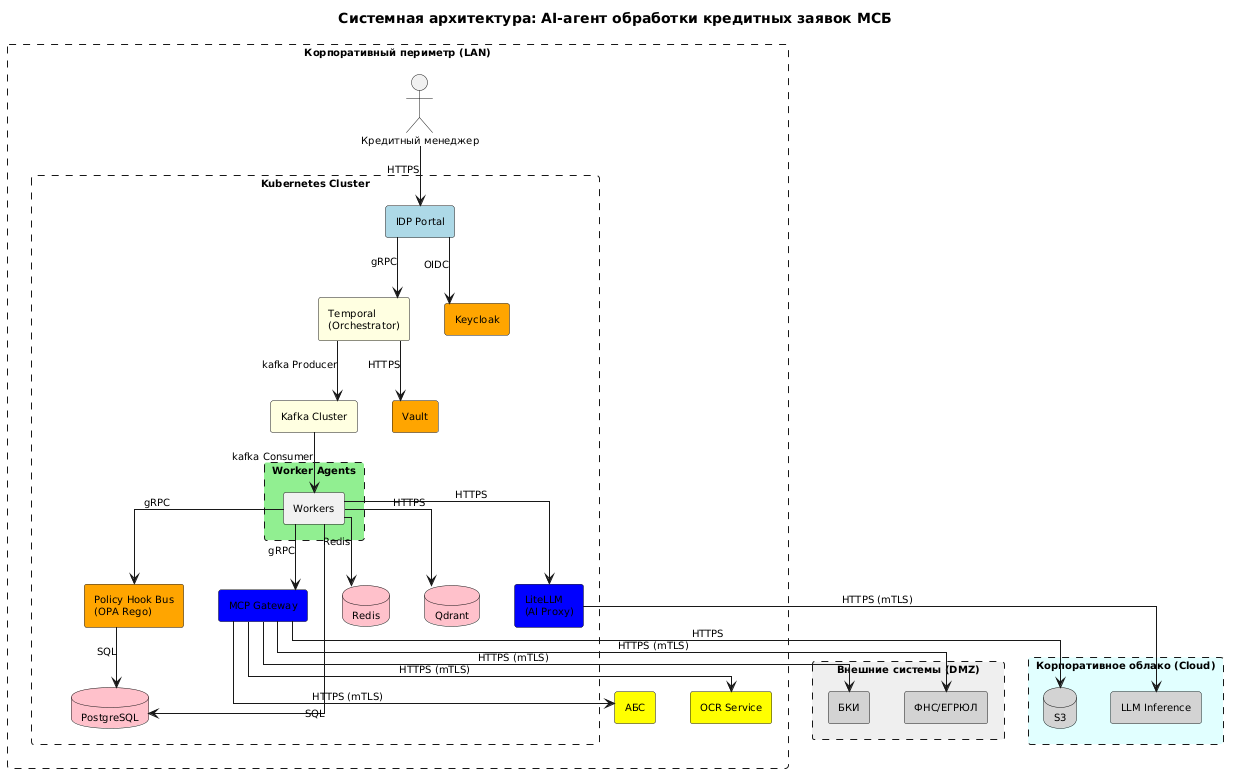
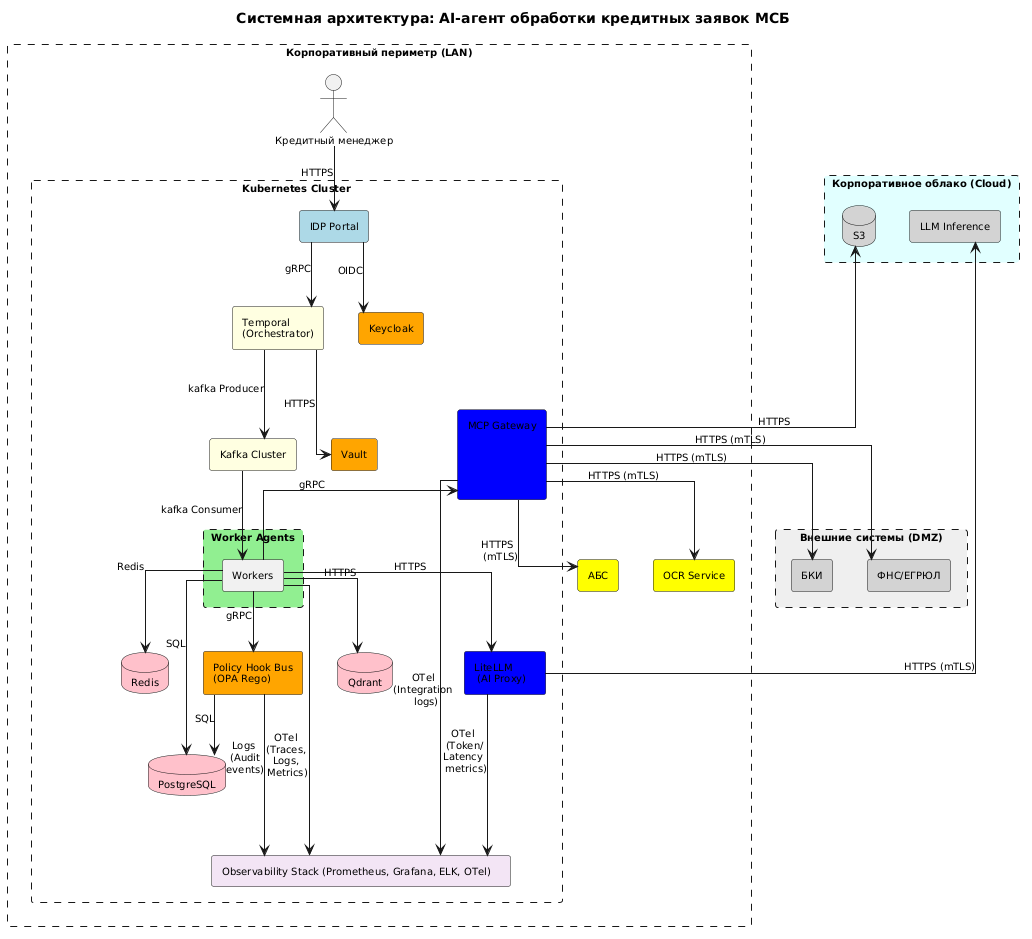
информационная и системная диаграмма + md и docx

diff --git a/docs/Architecture_Document.md b/docs/Architecture_Document.md
@@ -116,28 +116,33 @@
 
 ![Информационная архитектура](./diagrams/info_architecture.png)
 
-| Код | Объект данных                  | Источник                                                       | Получатель                                                     | Сущности в потоке                                                                                                 | Описание                                                                                                           | Тип      | Протокол           | Нагрузка                      |
-| --- | ------------------------------ | -------------------------------------------------------------- | -------------------------------------------------------------- | ----------------------------------------------------------------------------------------------------------------- | ------------------------------------------------------------------------------------------------------------------ | -------- | ------------------ | ----------------------------- |
-| П01 | Заявка на кредит               | Кредитный менеджер                                             | Слой: Интерфейс (IDP UI)                                       | JSON: анкета клиента + пакет документов (PDF/DOCX, до 200 МБ)                                                     | Новый поток. Менеджер загружает анкету и пакет документов через IDP UI и нажимает «Запустить обработку».           | Request  | HTTPS              | ~5 МБ на заявку               |
-| П02 | Запрос аутентификации          | Слой: Интерфейс (IDP UI)                                       | Слой: Безопасность (Keycloak, Vault, Policy Hook Bus)          | {user_id, mfa_challenge, session_id}                                                                              | Новый поток. IDP Portal инициирует аутентификацию в корпоративном IdP (Keycloak).                                  | Request  | OIDC/OAuth2        | ~1 КБ                         |
-| П03 | JWT-токен с правами            | Слой: Безопасность (Keycloak, Vault, Policy Hook Bus)          | Слой: Интерфейс (IDP UI)                                       | {access_token, roles, r_level, permissions}                                                                       | Новый поток. Keycloak возвращает JWT с ролями и вычисленным R-level для доступа к flows.                           | Response | OIDC               | ~2 КБ                         |
-| П04 | Заявка на обработку            | Слой: Интерфейс (IDP UI)                                       | Слой: Оркестратор (Temporal, A2A/Kafka)                        | A2A message: {task_id, spec_pointer: "SDD-10293", context_bundle, user_jwt, constraints}                          | Новый поток. IDP Portal валидирует заявку, формирует A2A-сообщение и передаёт в Orchestrator через Temporal/Kafka. | Request  | A2A (JSON-RPC)     | ~20 КБ                        |
-| П05 | Декомпозиция задач             | Слой: Оркестратор (Temporal, A2A/Kafka)                        | Слой: Агенты (Review, Scoring, Document, Guardian, Compliance) | A2A: {task_id, subtasks: \[...\], spec_pointer, sandbox_profile}                                                  | Новый поток. Orchestrator декомпозирует заявку на подзадачи и маршрутизирует специализированным агентам.           | Request  | A2A (JSON-RPC)     | ~10 КБ                        |
-| П06 | Запрос политик                 | Слой: Агенты (Review, Scoring, Document, Guardian, Compliance) | Слой: Безопасность (Keycloak, Vault, Policy Hook Bus)          | {action: "pdn_process", context: {...}, policy_ids: \["152-FZ-v2.1", "CBR-AML-v1.0"\]}                            | Новый поток. Агенты запрашивают политики безопасности и compliance-правила перед выполнением действий.             | Request  | gRPC + mTLS        | ~5 КБ                         |
-| П07 | Политики и разрешения          | Слой: Безопасность (Keycloak, Vault, Policy Hook Bus)          | Слой: Агенты (Review, Scoring, Document, Guardian, Compliance) | {decision: ALLOW/DENY/MODIFY/ESCALATE, policies: \[...\], r_level: 2}                                             | Новый поток. Policy Hook Bus возвращает решение по политикам (OPA Rego) и активные ограничения.                    | Response | gRPC + mTLS        | ~5 КБ                         |
-| П08 | Запрос контекста               | Слой: Агенты (Review, Scoring, Document, Guardian, Compliance) | Слой: Данные (RAG/Cache/Evidence/Audit)                        | {query_vector, collection: "credit_policies", top_k: 5}                                                           | Новый поток. Агенты запрашивают корпоративные знания и контекст из RAG/Cache для принятия решений.                 | Request  | HTTPS              | ~5 КБ                         |
-| П09 | Корпоративные знания           | Слой: Данные (RAG/Cache/Evidence/Audit)                        | Слой: Агенты (Review, Scoring, Document, Guardian, Compliance) | {context_documents: \[...\], policies: \[...\], patterns: \[...\]}                                                | Новый поток. RAG возвращает релевантные документы, политики кредитования и паттерны обработки.                     | Response | HTTPS              | ~50 КБ                        |
-| П10 | Запрос к системам              | Слой: Агенты (Review, Scoring, Document, Guardian, Compliance) | Слой: Интеграция (AI Gateway / MCP)                            | MCP request: {tool_id: "ocr_service.extract", params: {file_uri}}                                                 | Новый поток. Агенты запрашивают доступ к корпоративным системам через MCP Proxy.                                   | Request  | MCP (HTTPS)        | ~10 КБ                        |
-| П11 | Запрос к АБС/распознаванию     | Слой: Интеграция (AI Gateway / MCP)                            | Слой: Корпоративные системы (Распознавание, АБС)               | HTTPS POST: {subject_id, consent_token, query_type: "credit_history"}                                             | Новый поток. MCP Proxy проксирует запросы к АБС (банковское ядро) и сервису распознавания документов.              | Request  | HTTPS + mTLS + JWT | ~50 КБ                        |
-| П12 | Данные от корпоративных систем | Слой: Корпоративные системы (Распознавание, АБС)               | Слой: Интеграция (AI Gateway / MCP)                            | {credit_history: {...}, account_data: {...}, recognized_text: "..."}                                              | Новый поток. АБС возвращает данные о счетах клиента, сервис распознавания - извлечённый текст из документов.       | Response | HTTPS + mTLS       | ~100 КБ                       |
-| П13 | Запрос внешних данных          | Слой: Интеграция (AI Gateway / MCP)                            | Слой: Внешние API (ФНС/ЕГРЮЛ/БКИ)                              | HTTPS POST: {inn, ogrn, query_type: "entity_verification"}                                                        | Новый поток. MCP Proxy запрашивает данные из внешних реестров (ФНС, ЕГРЮЛ, БКИ) для верификации клиента.           | Request  | HTTPS + mTLS       | ~30 КБ                        |
-| П14 | Данные от внешних API          | Слой: Внешние API (ФНС/ЕГРЮЛ/БКИ)                              | Слой: Интеграция (AI Gateway / MCP)                            | {entity_data: {...}, credit_score: 750, registration_status: "active"}                                            | Новый поток. Внешние API возвращают данные о контрагенте, кредитную историю и статус регистрации.                  | Response | HTTPS + mTLS       | ~50 КБ                        |
-| П15 | Запрос LLM/документов          | Слой: Интеграция (AI Gateway / MCP)                            | Слой: Облако (LLM, S3)                                         | OpenAI-compatible: {model: "gigachat-max-2", messages: \[...\]} + S3 GET: {bucket: "credit-apps", key: "doc.pdf"} | Новый поток. LiteLLM проксирует запрос к LLM для инференса, S3 - загрузка/выгрузка документов.                     | Request  | HTTPS + mTLS       | ~50 КБ (LLM) + до 200 МБ (S3) |
-| П16 | Ответ LLM/файлы                | Слой: Облако (LLM, S3)                                         | Слой: Интеграция (AI Gateway / MCP)                            | {response: "Одобрить кредит", confidence: 0.95} + S3 file: {file_uri: "s3://..."}                                 | Новый поток. LLM возвращает решение по скорингу, S3 - обработанные файлы.                                          | Response | HTTPS + mTLS       | ~50 КБ (LLM) + до 200 МБ (S3) |
-| П17 | Ответ от систем                | Слой: Интеграция (AI Gateway / MCP)                            | Слой: Агенты (Review, Scoring, Document, Guardian, Compliance) | {tool_result: {...}, status: "success", data: {...}}                                                              | Новый поток. MCP Proxy возвращает агентам агрегированные результаты от корпоративных и внешних систем.             | Response | MCP (HTTPS)        | ~100 КБ                       |
-| П18 | Результат обработки            | Слой: Агенты (Review, Scoring, Document, Guardian, Compliance) | Слой: Оркестратор (Temporal, A2A/Kafka)                        | A2A: {task_id, result: {...}, evidence_bundle: {...}, eval_results: {...}}                                        | Новый поток. Агенты возвращают Orchestrator результаты обработки с Evidence Bundle.                                | Response | A2A (JSON-RPC)     | ~100 КБ                       |
-| П19 | Результат заявки               | Слой: Оркестратор (Temporal, A2A/Kafka)                        | Слой: Интерфейс (IDP UI)                                       | JSON: {application_id, decision: "approve/reject", risk_score, explanation}                                       | Новый поток. Orchestrator возвращает финальное решение по заявке в IDP UI.                                         | Response | HTTPS              | ~10 КБ                        |
-| П20 | Решение по заявке              | Слой: Интерфейс (IDP UI)                                       | Кредитный менеджер                                             | JSON: {application_id, decision, risk_score, explanation, next_steps} + файлы                                     | Новый поток. IDP Portal визуализирует решение с объяснением для менеджера.                                         | Response | HTTPS              | ~10 КБ                        |
+| Код | Объект данных | Источник | Получатель | Сущности в потоке | Описание (когда и зачем происходит) | Тип | Протокол | Нагрузка |
+|---|---|---|---|---|---|---|---|---|
+| П01 | Заявка на кредит | Кредитный менеджер | Слой: Интерфейс (IDP UI) | JSON: анкета + пакет документов | Шаг 1. Менеджер загружает анкету и документы через IDP UI и инициирует процесс. | Request | HTTPS | ~5 МБ |
+| П02 | Запрос аутентификации | Слой: Интерфейс (IDP UI) | Слой: Безопасность | {user_id, mfa_challenge, session_id} | Шаг 2. IDP инициирует аутентификацию пользователя в корпоративном IdP (Keycloak). | Request | OIDC/OAuth2 | ~1 КБ |
+| П03 | JWT-токен с правами | Слой: Безопасность | Слой: Интерфейс (IDP UI) | {access_token, roles, r_level, permissions} | Шаг 3. Keycloak возвращает JWT с ролями и вычисленным R-level для доступа к flows. | Response | OIDC | ~2 КБ |
+| П04 | Заявка на обработку | Слой: Интерфейс (IDP UI) | Слой: Оркестратор | A2A: {task_id, spec_pointer, context_bundle, user_jwt} | Шаг 4. IDP валидирует заявку и передает намерение Оркестратору через A2A/Kafka. | Request | A2A (JSON-RPC) | ~20 КБ |
+| П05 | Метрики сессии (старт) | Слой: Оркестратор | Слой: Наблюдаемость | {session_id, token_budget, r_level, start_time} | Шаг 5. Оркестратор инициализирует сессию, фиксируя бюджет токенов и R-level для последующего Circuit Breaker. | Event | HTTPS / OTel | ~2 КБ |
+| П06 | Декомпозиция задач | Слой: Оркестратор | Слой: Агенты | A2A: {task_id, subtasks: [...], spec_pointer, sandbox_profile} | Шаг 6. Оркестратор декомпозирует заявку на подзадачи и маршрутизирует их специализированным агентам. | Request | A2A (JSON-RPC) | ~10 КБ |
+| П07 | Запрос политик | Слой: Агенты | Слой: Безопасность | {action: "pdn_process", context, policy_ids: ["152-FZ", "CBR-AML"]} | Шаг 7. Агент запрашивает проверку политик безопасности и compliance-правил перед выполнением действия. | Request | gRPC + mTLS | ~5 КБ |
+| П08 | Политики и разрешения | Слой: Безопасность | Слой: Агенты | {decision: ALLOW/DENY/MODIFY/ESCALATE, policies, r_level} | Шаг 8. Policy Hook Bus возвращает мандатное решение (OPA Rego) и активные ограничения. | Response | gRPC + mTLS | ~5 КБ |
+| П09 | Аудит политик | Слой: Безопасность | Слой: Наблюдаемость | {event_id, policy_id, decision, r_level, timestamp} | Шаг 9. Фиксация факта срабатывания guardrails (152-ФЗ, ЦБ) в реальном времени для compliance-отчетности. | Event | HTTPS / Kafka | ~2 КБ |
+| П10 | Запрос контекста | Слой: Агенты | Слой: Данные | {query_vector, collection: "credit_policies", top_k: 5} | Шаг 10. Агент запрашивает корпоративные знания и контекст из RAG/Cache для принятия решения. | Request | HTTPS | ~5 КБ |
+| П11 | Корпоративные знания | Слой: Данные | Слой: Агенты | {context_documents, policies, patterns} | Шаг 11. RAG возвращает релевантные документы, политики кредитования и паттерны обработки. | Response | HTTPS | ~50 КБ |
+| П12 | Запрос к системам | Слой: Агенты | Слой: Интеграция | MCP request: {tool_id: "ocr_service.extract", params: {file_uri}} | Шаг 12. Агент запрашивает доступ к корпоративным или внешним системам через MCP Proxy. | Request | MCP (HTTPS) | ~10 КБ |
+| П13 | Трассировка вызова (старт) | Слой: Интеграция | Слой: Наблюдаемость | {trace_id, tool_id, masked_params, agent_id} | Шаг 13. Фиксация начала выполнения инструмента с маскированием чувствительных параметров (ПДН). | Event | HTTPS / OTel | ~5 КБ |
+| П14 | Запрос к АБС/распознаванию | Слой: Интеграция | Слой: Корп. системы | HTTPS POST: {subject_id, consent_token, query_type} | Шаг 14. MCP Proxy проксирует запросы к АБС (банковское ядро) и сервису распознавания документов. | Request | HTTPS + mTLS + JWT | ~50 КБ |
+| П15 | Данные от корп. систем | Слой: Корп. системы | Слой: Интеграция | {credit_history, account_data, recognized_text} | Шаг 15. АБС возвращает данные о счетах, сервис распознавания — извлечённый текст из документов. | Response | HTTPS + mTLS | ~100 КБ |
+| П16 | Запрос внешних данных | Слой: Интеграция | Слой: Внешние API | HTTPS POST: {inn, ogrn, query_type: "entity_verification"} | Шаг 16. MCP Proxy запрашивает данные из внешних реестров (ФНС, ЕГРЮЛ, БКИ) для верификации. | Request | HTTPS + mTLS | ~30 КБ |
+| П17 | Данные от внешних API | Слой: Внешние API | Слой: Интеграция | {entity_data, credit_score, registration_status} | Шаг 17. Внешние API возвращают данные о контрагенте, кредитную историю и статус регистрации. | Response | HTTPS + mTLS | ~50 КБ |
+| П18 | Запрос LLM/документов | Слой: Интеграция | Слой: Облако | OpenAI-compatible: {model, messages} + S3 GET: {bucket, key} | Шаг 18. LiteLLM проксирует запрос к LLM для инференса, S3 — загрузка/выгрузка документов. | Request | HTTPS + mTLS | ~50 КБ (LLM) + до 200 МБ (S3) |
+| П19 | Ответ LLM/файлы | Слой: Облако | Слой: Интеграция | {response: "Одобрить", confidence} + S3 file: {file_uri} | Шаг 19. LLM возвращает решение по скорингу, S3 подтверждает обработку файлов. | Response | HTTPS + mTLS | ~50 КБ (LLM) + до 200 МБ (S3) |
+| П20 | Ответ от систем | Слой: Интеграция | Слой: Агенты | {tool_result, status: "success", data} | Шаг 20. MCP Proxy возвращает агентам агрегированные результаты от всех вызванных корпоративных и внешних систем. | Response | MCP (HTTPS) | ~100 КБ |
+| П21 | Трассировка и логи (итог) | Слой: Агенты | Слой: Наблюдаемость | {trace_id, tool_calls, eval_results, latency, token_cost} | Шаг 21. По завершении действия агент отправляет структурированные логи, результаты evals и трассировку для анализа качества. | Event | HTTPS / OTel | ~10–50 КБ |
+| П22 | Результат обработки | Слой: Агенты | Слой: Оркестратор | A2A: {task_id, result, evidence_bundle, eval_results} | Шаг 22. Агенты возвращают Оркестратору результаты обработки с полным Evidence Bundle (контракт завершения). | Response | A2A (JSON-RPC) | ~100 КБ |
+| П23 | Дашборды и алерты | Слой: Наблюдаемость | Слой: Интерфейс (IDP UI) | {dashboard_data, guardian_alerts, real_time_explainability} | Шаг 23. Система наблюдаемости визуализирует статус задач, Real-time Explainability и алерты Guardian Agent для администратора/HITL. | Response | HTTPS / WebSocket | ~20–100 КБ |
+| П24 | Решение по заявке | Слой: Интерфейс (IDP UI) | Кредитный менеджер | JSON: {application_id, decision, risk_score, explanation, next_steps} + файлы | Шаг 24. IDP Portal визуализирует финальное решение с объяснением для менеджера, замыкая бизнес-цикл. | Response | HTTPS | ~10 КБ |
+
 
 **3.3 Системная архитектура**
 